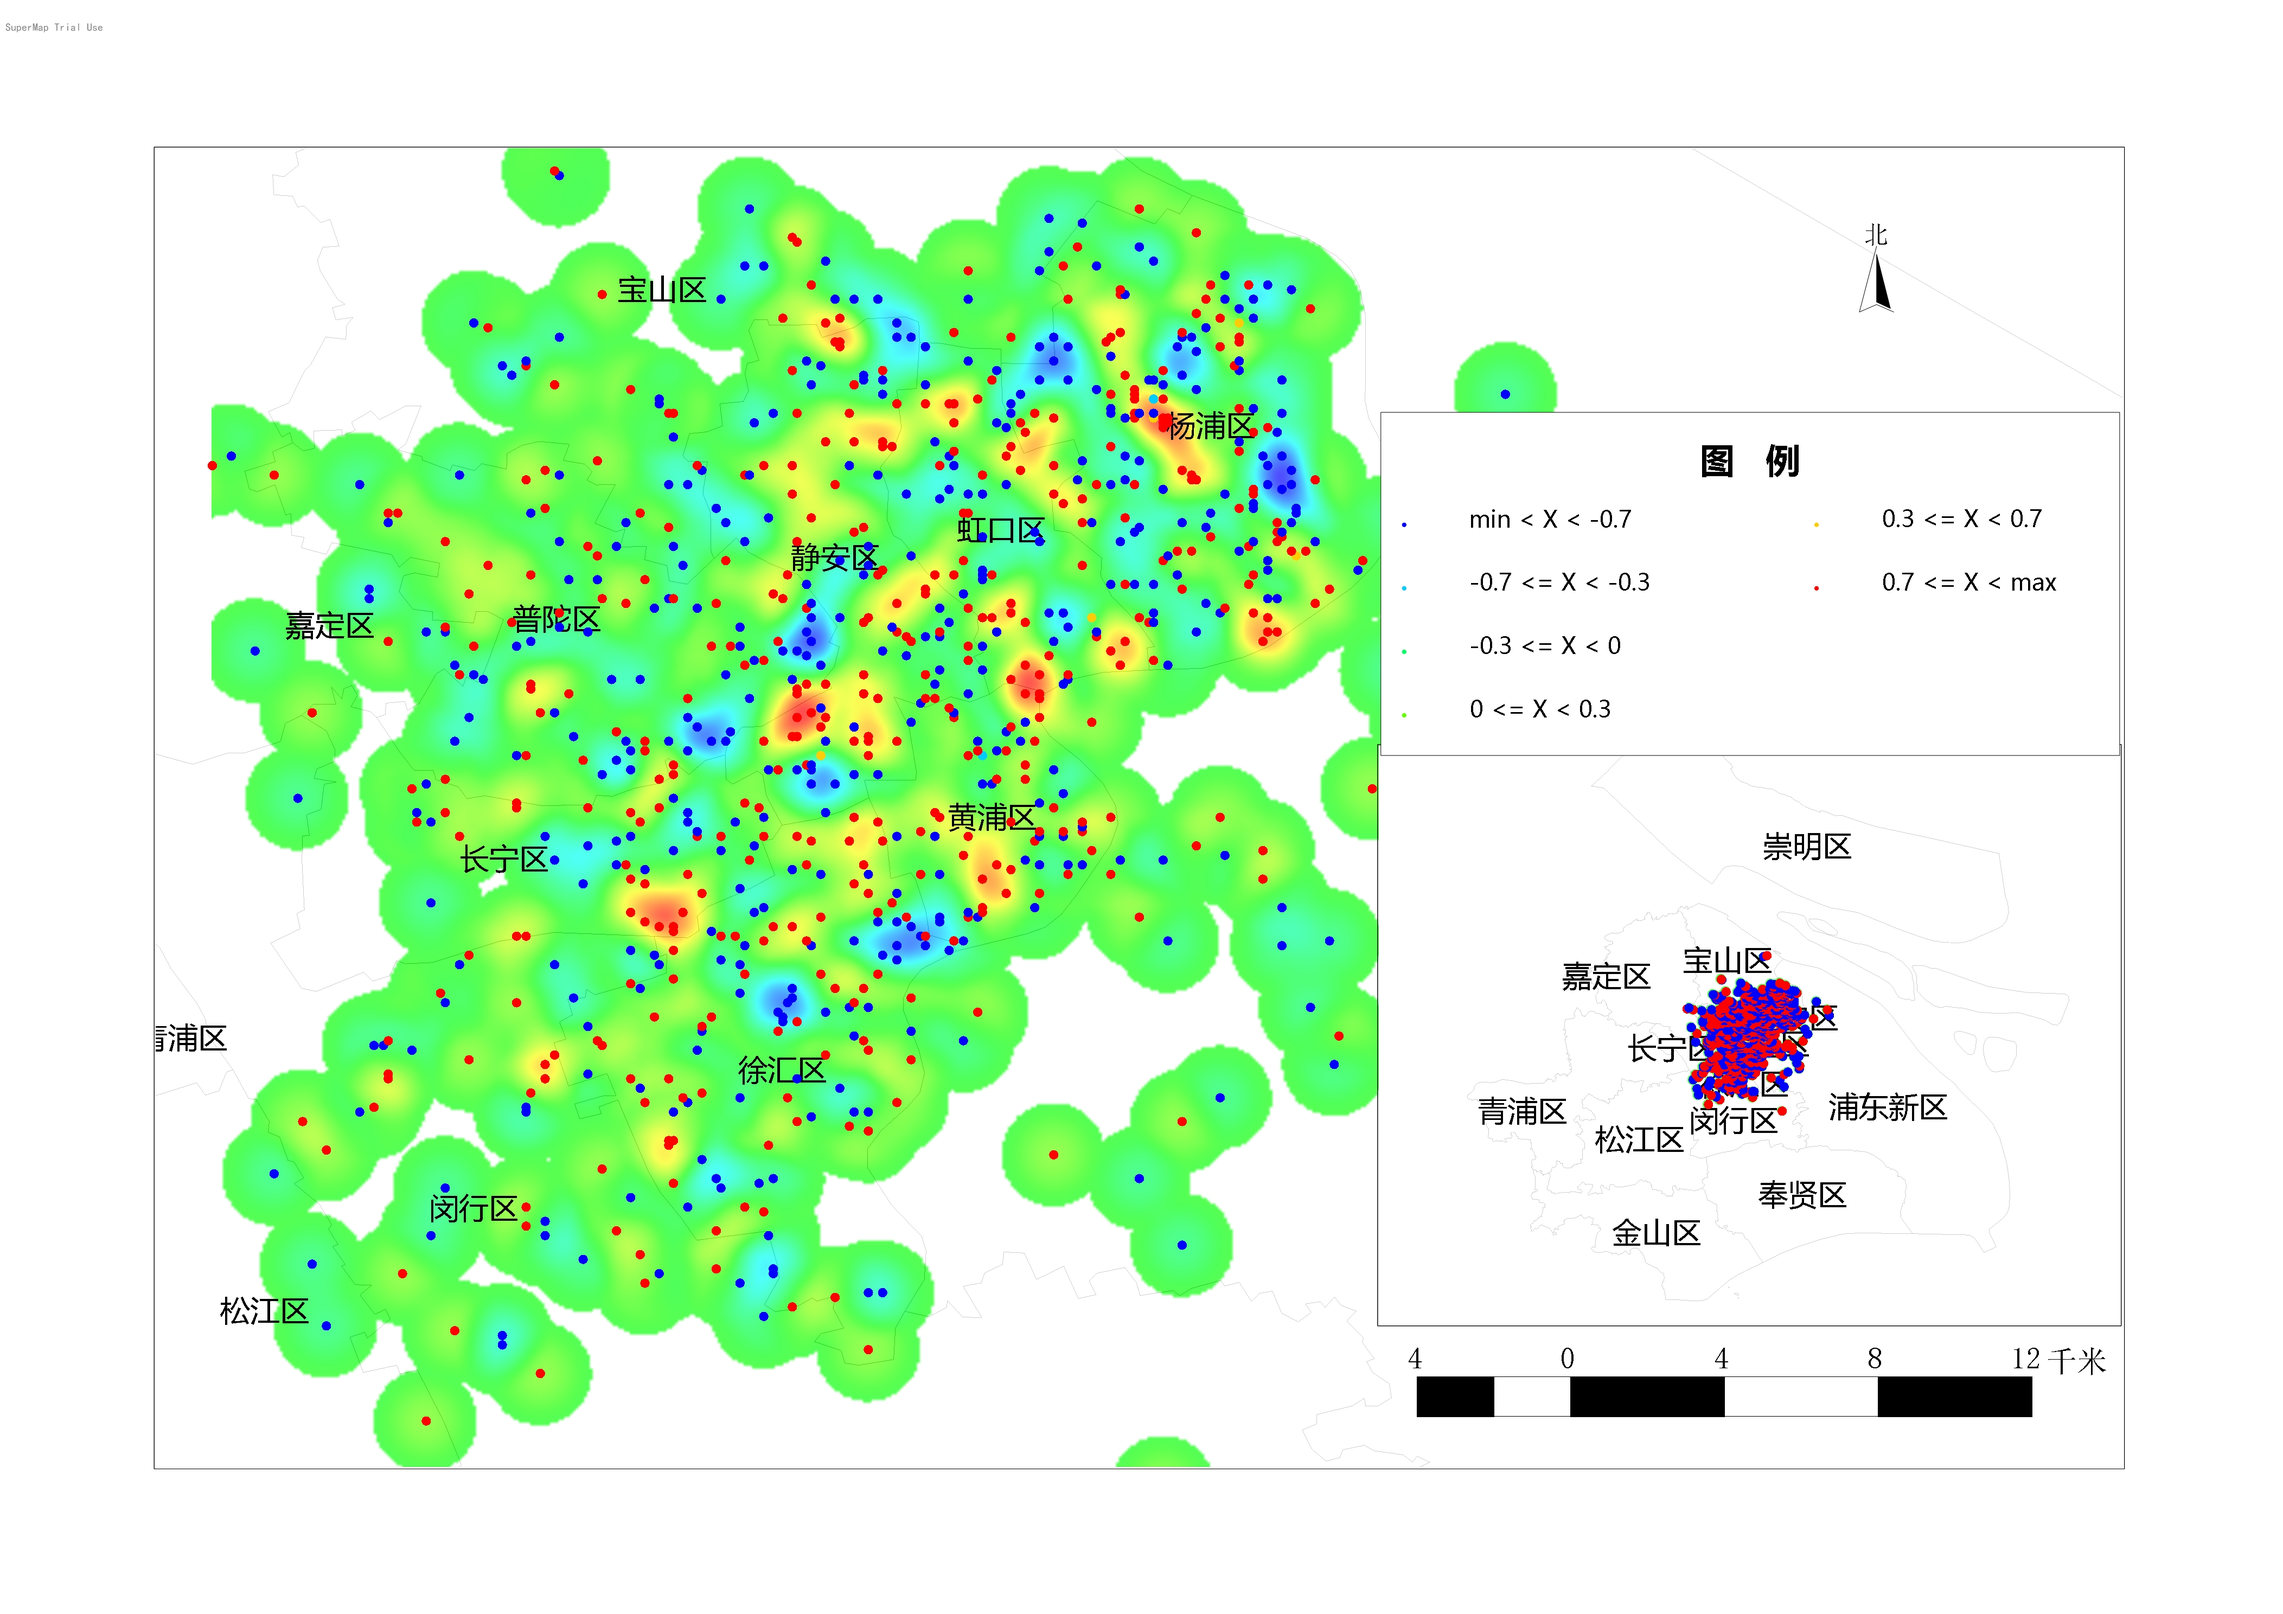
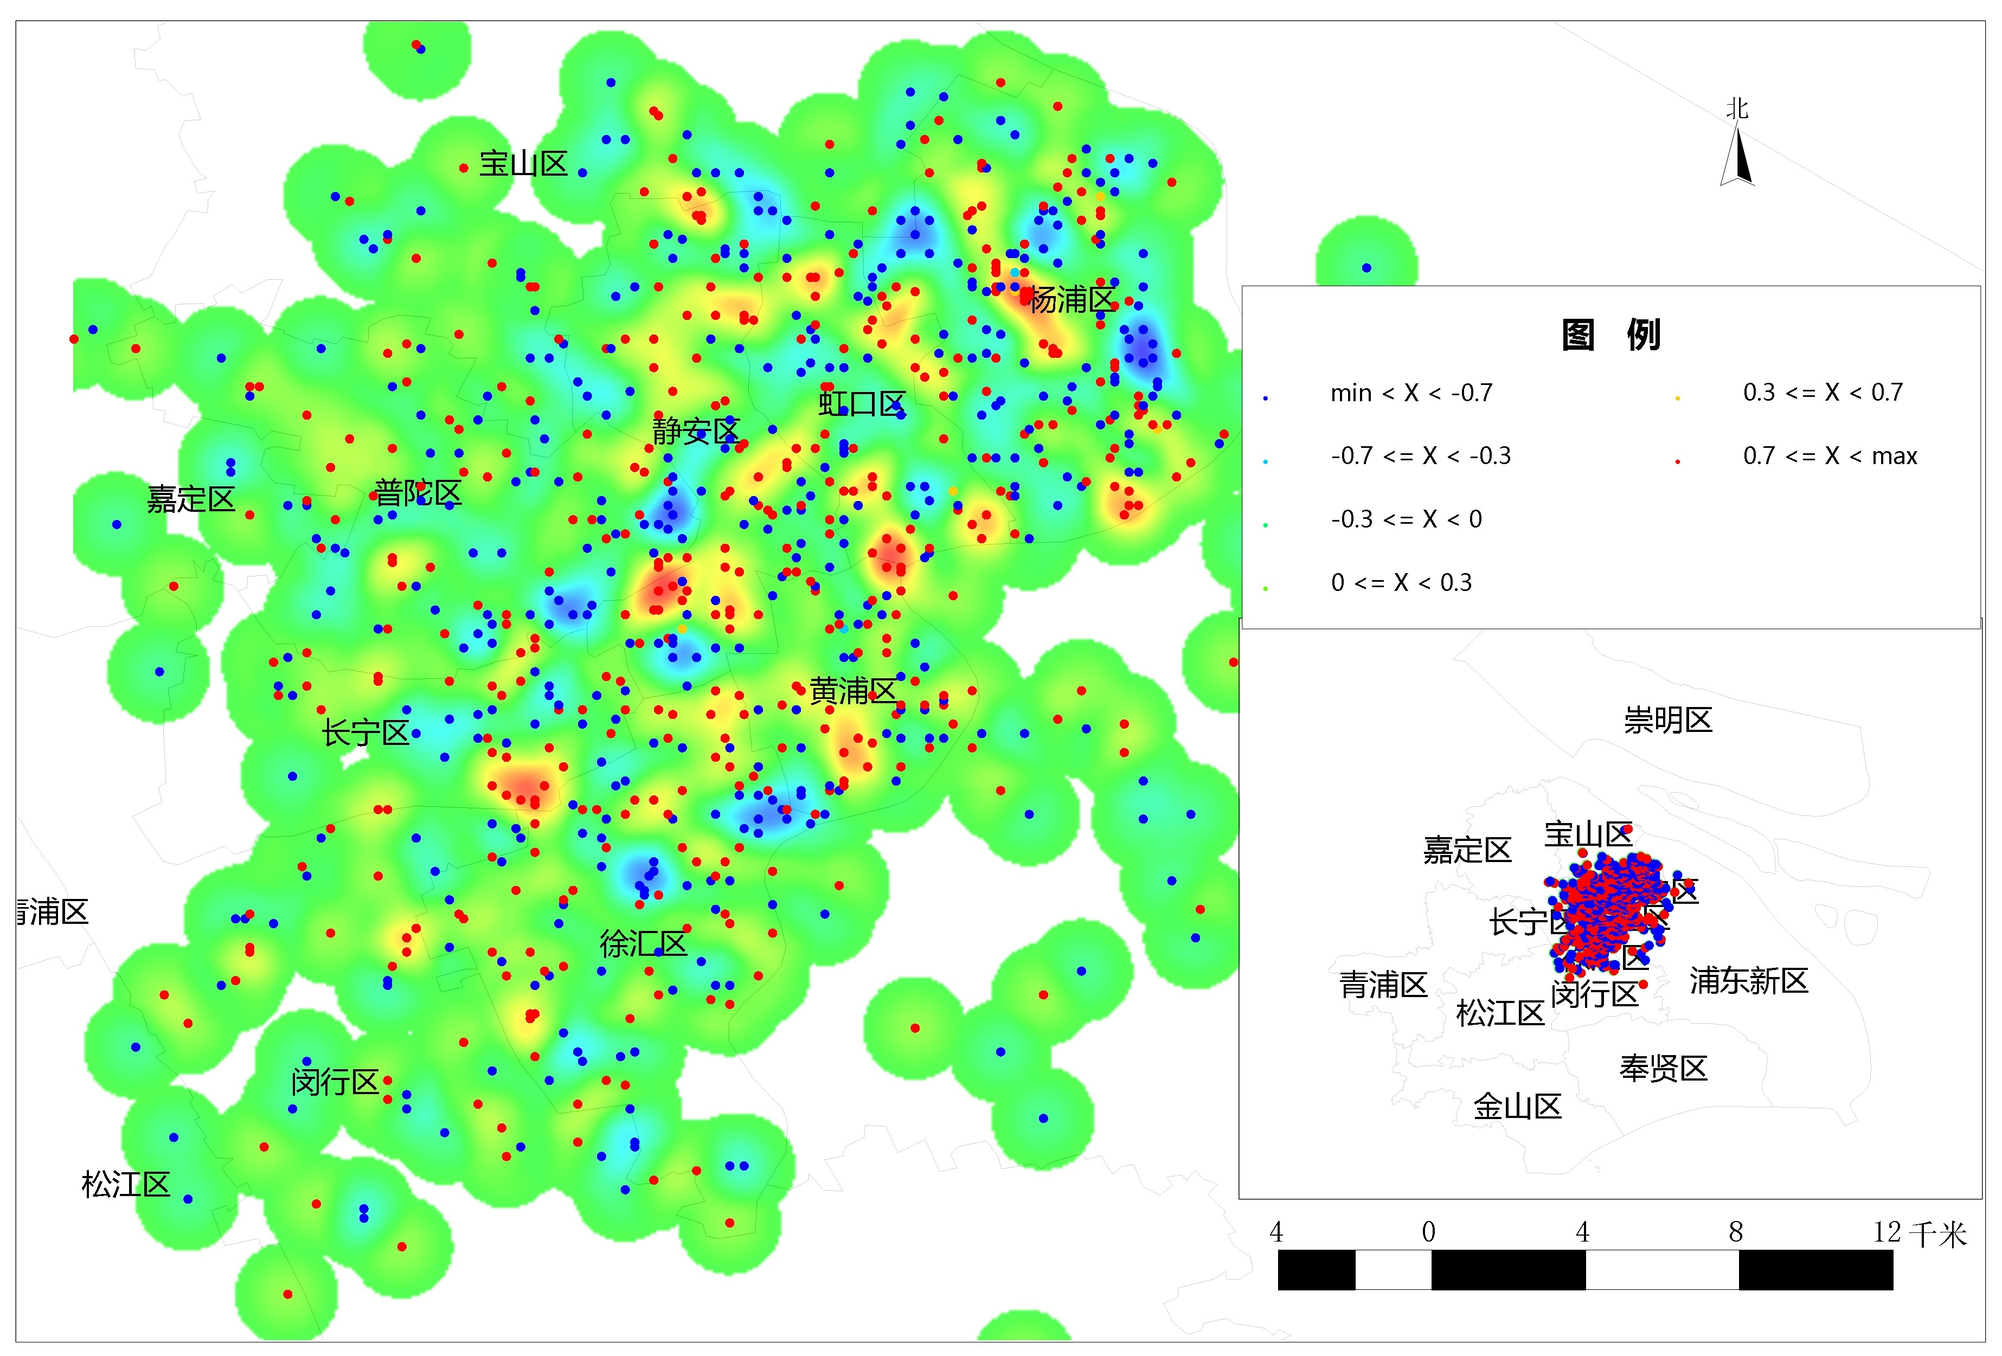
优化共享单车轨迹数据处理

diff --git a/scripts/GEE.js b/scripts/GEE.js
@@ -1,0 +1,67 @@
+var image;  // image has been imported as a global variable (one band kernel density image)
+
+var Min = -43789.04174797;
+var Max = 47493.6070857597;
+
+Map.addLayer(image, {min: Min, max: Max, palette: ['blue', 'yellow', 'red']}, 'Kernel Density');
+
+// ***Panel*** \\
+// set position of panel
+var legend = ui.Panel({
+  layout: ui.Panel.Layout.flow('vertical'),
+  style: {
+    position: 'bottom-left',
+    padding: '30x 30px',
+    color: '000000'
+  }
+});
+ 
+// Create legend title
+var legendTitle = ui.Label({
+  value: 'Legend',
+  style: {
+    fontWeight: 'bold',
+    fontSize: '18px',
+    margin: '0 0 0 0',
+    padding: '0'
+    }
+});
+
+ // Add the title to the panel
+legend.add(legendTitle); 
+
+// create the legend image
+var lon = ee.Image.pixelLonLat().select('latitude');
+var gradient = lon.multiply((viz.max-viz.min)/100.0).add(viz.min);
+var legendImage = gradient.visualize(viz);
+
+
+// create text on top of legend
+var panel = ui.Panel({
+    widgets: [
+      ui.Label(viz['max'])
+    ],
+  });
+
+legend.add(panel);
+  
+// create thumbnail from the image
+var thumbnail = ui.Thumbnail({
+  image: legendImage,
+    params: {bbox:'0,0,10,100', dimensions:'20x200'},  
+    style: {padding: '1px', position: 'bottom-center'},
+  });
+
+// add the thumbnail to the legend
+legend.add(thumbnail);
+
+// create text on top of legend
+var panel = ui.Panel({
+    widgets: [
+      ui.Label(viz['min'])
+    ],
+   });
+
+legend.add(panel);
+
+Map.add(legend);
